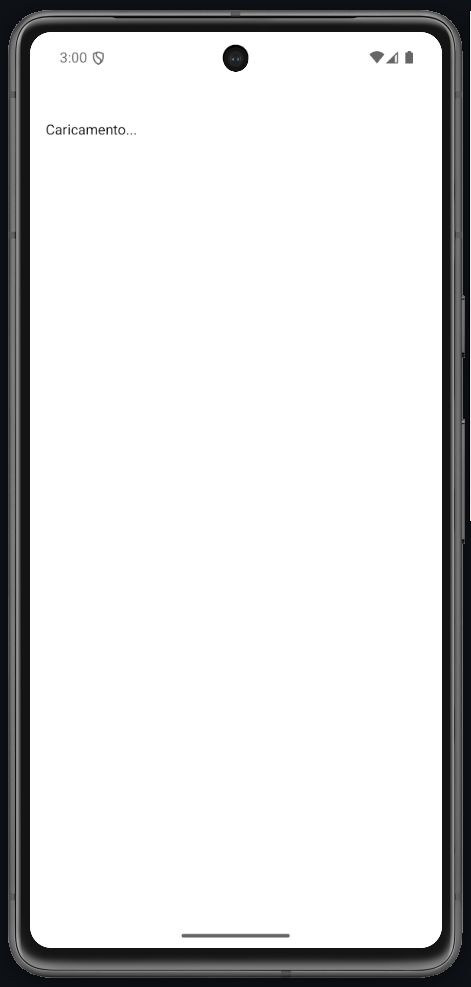
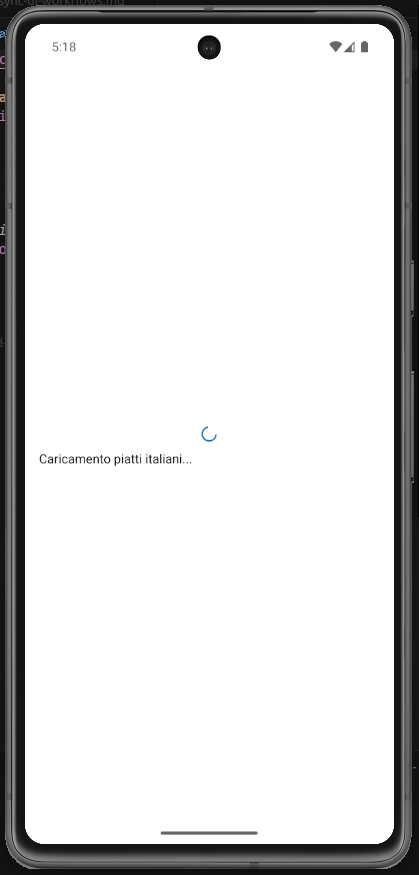
aggiornamento lab 15

diff --git a/labs/15_rest-calls-and-async-ui-workflows.md b/labs/15_rest-calls-and-async-ui-workflows.md
@@ -1,10 +1,10 @@
-# Lab 15 - REST calls e workflow asincroni con stati UI
+# Lab 15 - REST calls e workflow asincroni (Italian Meals App)
 
 ## Obiettivo
 
-- Carica dati da REST API con `fetch` e mostra in `FlatList`.
+- Caricare **piatti italiani** da [TheMealDB](https://www.themealdb.com/api.php) con `fetch` e mostrarli in `FlatList`.
 - Un solo oggetto stato con `status` (loading / error / success).
-- Gestisci almeno un edge case con un messaggio chiaro.
+- Gestire almeno un edge case con messaggio chiaro e pulsante **Retry**.
 
 ## Timebox
 
@@ -16,62 +16,99 @@
 - VS Code e Git
 - Expo oppure React Native CLI (Android)
 - Android emulator oppure telefono reale
+- **Lab 13–14 completati** (navigazione Lista → Dettaglio con `idMeal`)
 
 ## Scenario
 
-Carica dati da JSONPlaceholder, incapsula fetch in `services/`, modella la UI con un singolo oggetto stato e pulsante Retry.
+Continua lo sviluppo della **Italian Meals App** (progetto finale). Dopo login e navigazione (lab 13–14), la schermata **Lista piatti** deve caricare dati reali da TheMealDB, mostrare stati UI espliciti e permettere il **Retry** in caso di errore di rete.
 
-> **Perché questo lab:** esercitare i pattern della lezione 15 in una mini-app concreta.
+> **Perché questo lab:** ogni lezione 15–21 aggiunge un pezzo del **progetto finale**. Qui implementi API + stati asincroni sulla lista (e opzionalmente sul dettaglio).
+
+## Documentazione API (consulta sempre)
+
+- https://www.themealdb.com/documentation
+- https://www.themealdb.com/api.php
+
+| Endpoint              | URL                                                                 |
+| --------------------- | ------------------------------------------------------------------- |
+| Lista piatti italiani | `GET https://www.themealdb.com/api/json/v1/1/filter.php?a=Italian`  |
+| Dettaglio piatto      | `GET https://www.themealdb.com/api/json/v1/1/lookup.php?i={idMeal}` |
+
+Risposta lista: `meals[]` con `idMeal`, `strMeal`, `strMealThumb`.
+
+### Esempio fetch (`services/mealsApi.ts`)
+
+```ts
+const BASE = "https://www.themealdb.com/api/json/v1/1";
+
+export async function fetchItalianMeals() {
+  const res = await fetch(`${BASE}/filter.php?a=Italian`);
+  if (!res.ok) throw new Error(`HTTP ${res.status}`);
+  const data = await res.json();
+  return data.meals ?? [];
+}
+
+export async function fetchMealById(id: string) {
+  const res = await fetch(`${BASE}/lookup.php?i=${id}`);
+  if (!res.ok) throw new Error(`HTTP ${res.status}`);
+  const data = await res.json();
+  return data.meals?.[0] ?? null;
+}
+```
 
 ## Cosa imparerai
 
-1. Come usare `fetch` con controllo `res.ok`.
-2. Come gestire errori HTTP (non trattarli come successo).
-3. Come usare un singolo oggetto stato `{ status, items, message }`.
-4. Come mostrare `ActivityIndicator`, errore con Retry e lista con `FlatList`.
+1. Come incapsulare `fetch` in `services/mealsApi.ts` con controllo `res.ok`.
+2. Come modellare `{ status, items, message }` in `MealsListScreen`.
+3. Come riusare lo stesso pattern in `MealDetailScreen` con `{ status, meal, message }`.
+4. Come mostrare `ActivityIndicator`, errore + Retry e `FlatList` di piatti.
 
 ## Passi
 
-1. **Avvia progetto** - verifica che l'app parta.
-2. **services/posts.ts** - `loadPosts()` con `fetch` da `jsonplaceholder.typicode.com/posts?_limit=5` e controllo `res.ok`.
-3. **Stato unico** - `const [state, setState] = React.useState({ status: "idle", items: [], message: "" })`.
-4. **load()** - Imposta `loading`, poi `success` o `error` con messaggio.
-5. **UI condizionale** - `ActivityIndicator` per loading, messaggio + Retry per error, `FlatList` per success.
-6. **Edge case** - Simula errore (URL sbagliata) e mostra Retry funzionante.
+1. **services/mealsApi.ts** - `fetchItalianMeals` e `fetchMealById` (vedi esempio sopra).
+2. **types/meal.ts** - `MealSummary`, `MealsListState`, `MealDetailState` con `LoadStatus`.
+3. **MealsListScreen** - stato unico `{ status, items, message }`; funzione `loadMeals()` in `useEffect` al mount.
+4. **UI condizionale** - `LoadingView` / `ErrorView` con Retry / `FlatList` con `MealCard` (thumbnail + nome).
+5. **MealDetailScreen** - stesso pattern asincrono per `lookup.php`; mostra immagine, titolo, ingredienti o istruzioni.
+6. **Edge case** - Simula errore (URL sbagliata o rete off) → messaggio + Retry funzionante. Lista vuota (`meals: null`) → testo «Nessun piatto italiano disponibile».
 
 ## Screenshot attesi
 
-**Posts caricati - dati da REST API con fetch**
+**Lista piatti caricata - dati da TheMealDB**
 
-![Lab 15 - Posts caricati](imgs/lab_15_main.png)
+![Lab 15 - Lista piatti](../labs/imgs/lab_15_main.png)
 
-**Stato errore - errore HTTP con pulsante Retry**
+**Stato errore - errore HTTP/rete con pulsante Retry**
 
-![Lab 15 - Stato errore](imgs/lab_15_error.png)
+![Lab 15 - Stato errore](../labs/imgs/lab_15_error.png)
 
 **Workflow asincrono - stati loading / success / error**
 
-![Lab 15 - Workflow asincrono](imgs/lab_15_workflow.png)
+![Lab 15 - Workflow asincrono](../labs/imgs/lab_15_workflow.png)
 
 ## Consegna minima
 
-- App che parte su emulatore o device
-- UI chiara con un solo stato attivo alla volta
-- Retry funzionante dopo errore HTTP
+- App **Italian Meals** che parte su emulatore o device
+- Lista piatti italiani da API reale
+- Dettaglio piatto con fetch su `idMeal`
+- Un solo stato attivo alla volta (loading / error / success)
+- Retry funzionante dopo errore
 
 ## Checkpoint
 
 - [ ] Avvio progetto senza errori
-- [ ] Fetch con controllo `res.ok`
-- [ ] Stati loading / error / success espliciti
+- [ ] `fetch` con controllo `res.ok` in `services/mealsApi.ts`
+- [ ] Stati loading / error / success espliciti su Lista (e Dettaglio)
 - [ ] Edge case gestito con messaggio chiaro
-- [ ] Cleanup completato
+- [ ] Screenshot in Google Doc (riga **Lab 15**)
 
 ## Problemi comuni
 
 - Se Metro non parte: chiudi processi in ascolto e riavvia `npx expo start`.
 - Se l'emulatore è lento: verifica virtualizzazione/KVM/Hyper-V o usa device reale.
 - Se l'app non si connette: controlla che PC e device siano sulla stessa rete (LAN).
+- Se la lista è vuota: verifica l'URL `filter.php?a=Italian` (area con la A maiuscola).
+- Se il dettaglio non carica: usa un `idMeal` dalla lista italiana (es. `52772`), non id di altre aree.
 
 ## Cleanup
 
@@ -80,7 +117,7 @@ Carica dati da JSONPlaceholder, incapsula fetch in `services/`, modella la UI co
 
 ## Search terms
 
+- themealdb api react native
 - fetch api react native
-- jsonplaceholder posts
 - react native loading state
-- activityindicator react native
+- activityindicator flatlist